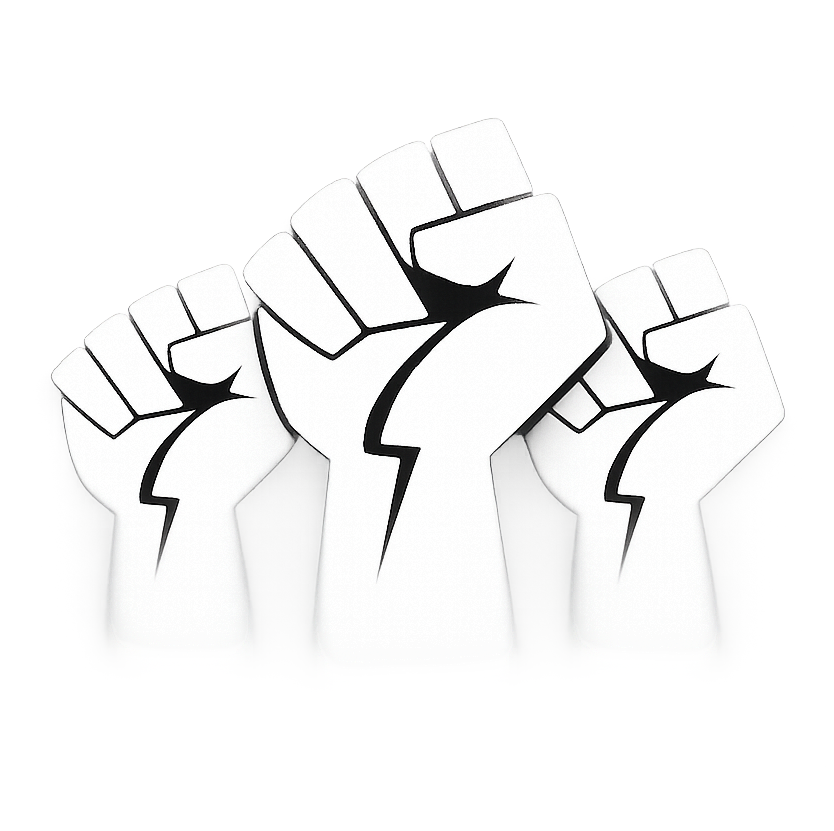
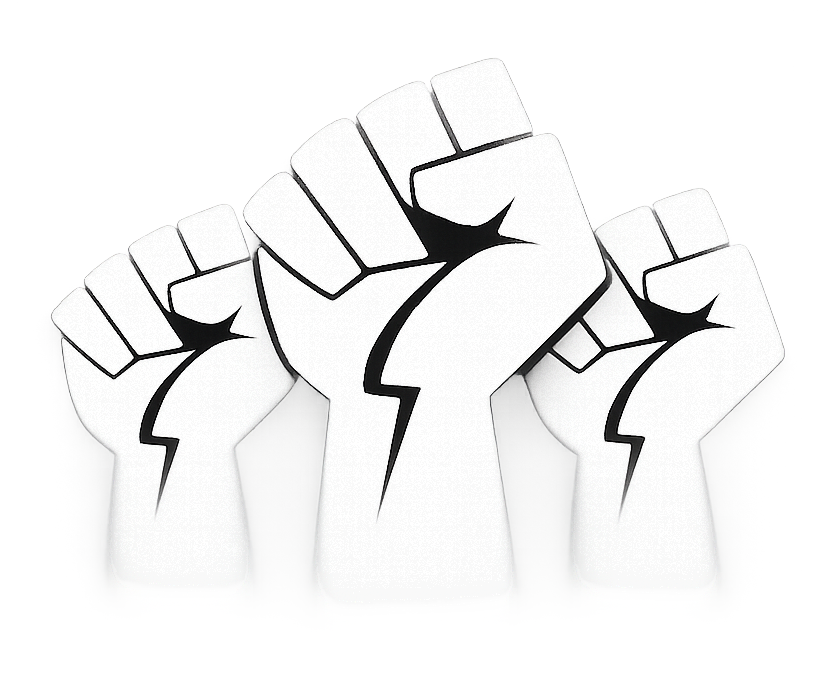
add more some changes

diff --git a/index.html b/index.html
@@ -153,9 +153,13 @@
         <div class="relative z-20 border-4 rounded-full p-2.5 sm:p-3.5">
 
           <div class="relative z-20 border-4 rounded-full p-3 sm:p-4">
-
-            <img src="./assets/fist_3.png" alt="fist" class="w-48 sm:w-64 md:w-72 lg:w-[350px] 
+            <div class=" flex flex-col items-center px-2 py-4">
+              <img src="./assets/fist_3.png" alt="fist" class="w-48 sm:w-64 md:w-72 lg:w-[350px] 
           object-contain brightness-110 contrast-125 mx-auto" />
+              <div class=" text-base sm:text-xl md:text-2xl lg:text-3xl  text-amber-400 font-semibold">
+                जागो बिहारी जागो
+              </div>
+            </div>
 
           </div>
 
@@ -277,7 +281,7 @@
       <p class="text-amber-400 font-medium mb-3">Grow the Community</p>
 
       <h2 class="text-3xl sm:text-4xl lg:text-5xl font-bold text-white mb-4">
-        Invite & <span class="gradient-text">Build Together</span> 
+        Invite & <span class="gradient-text">Build Together</span>
       </h2>
 
       <p class="text-gray-400 max-w-2xl mx-auto mb-10">
@@ -507,9 +511,9 @@
 
       <!-- Heading -->
       <div class="text-center mb-16 scroll-reveal">
-        <p class="text-amber-400 font-medium mb-4">Our Impact</p>
+        <!-- <p class="text-amber-400 font-medium mb-4">Our Impact</p> -->
         <h2 class="text-4xl lg:text-5xl font-bold mb-6">
-          Impact <span class="gradient-text">Highlights</span>
+          Upcoming <span class="gradient-text">Services</span>
         </h2>
         <div class="w-20 h-1 bg-gradient-to-r from-amber-400 to-orange-500 mx-auto"></div>
       </div>
@@ -716,7 +720,7 @@
       <p class="text-amber-400 font-medium mb-3">Support the Mission</p>
 
       <h2 class="text-3xl sm:text-4xl lg:text-5xl font-bold text-white mb-6">
-        Empower Justice <span class="gradient-text">Through Contribution</span> 
+        Empower Justice <span class="gradient-text">Through Contribution</span>
       </h2>
 
       <p class="text-gray-400 max-w-2xl mx-auto mb-14">
@@ -740,7 +744,8 @@
         <!-- Card 2 -->
         <div
           class="bg-slate-900 p-6 rounded-2xl border border-slate-700 hover:border-amber-400 hover:scale-105 transition duration-300">
-          <div class="text-amber-400 flex items-center justify-center p-4"><img src="./assets/speaker-50.png" alt=""></div>
+          <div class="text-amber-400 flex items-center justify-center p-4"><img src="./assets/speaker-50.png" alt="">
+          </div>
           <h4 class="text-lg font-semibold text-white mb-2">Awareness Campaigns</h4>
           <p class="text-gray-400 text-sm">
             Spreading awareness about constitutional rights and educating citizens to stand against injustice.
@@ -750,7 +755,8 @@
         <!-- Card 3 -->
         <div
           class="bg-slate-900 p-6 rounded-2xl border border-slate-700 hover:border-amber-400 hover:scale-105 transition duration-300">
-          <div class="text-amber-400 flex items-center justify-center p-4"><img src="./assets/protection.png" alt=""></div>
+          <div class="text-amber-400 flex items-center justify-center p-4"><img src="./assets/protection.png" alt="">
+          </div>
           <h4 class="text-lg font-semibold text-white mb-2">Rights Protection</h4>
           <p class="text-gray-400 text-sm">
             Protecting individuals from exploitation and misuse of power through structured action and advocacy.
@@ -993,59 +999,111 @@
 
 
   <!-- Constitutional Foundation -->
-  <div id="constitutional_foundation"
-    class="relative w-screen  py-16 overflow-hidden bg-slate-800/50  rounded-2xl p-6 shadow-2xl">
-    <div class="relative w-full max-w-5xl mx-auto px-4 sm:px-8">
+  <section id="constitutional_foundation" class="relative w-full py-20 bg-slate-800 overflow-hidden">
 
-      <h2 class="text-4xl lg:text-5xl font-bold mb-10 text-center">
-        Your Rights Under the <span class="gradient-text">Constitution</span>
-      </h2>
+    <div class="max-w-6xl mx-auto px-4 sm:px-6 lg:px-8">
 
-      <p class="text-gray-300 text-base leading-relaxed mb-4 text-center max-w-3xl mt-5 mx-auto">
-        Every citizen of India has important rights given by the Constitution
-        <span class="text-amber-400 font-medium">(Part III – Articles 12 to 35)</span>.
-        These rights protect your freedom, ensure equality, and give you the power to take action when treated unfairly.
-      </p>
+      <!-- Heading -->
+      <div class="text-center mb-16">
+        <h2 class="text-3xl sm:text-4xl lg:text-5xl font-bold leading-tight">
+          Your Rights Under the
+          <span class="bg-gradient-to-r from-amber-400 to-orange-500 text-transparent bg-clip-text">
+            Constitution
+          </span>
+        </h2>
 
-      <div class="grid md:grid-cols-2 gap-6 text-sm">
+        <p class="mt-6 text-gray-300 max-w-3xl mx-auto text-sm sm:text-base leading-relaxed">
+          Every citizen of India has important rights given by the Constitution
+          <span class="text-amber-400 font-medium">(Part III – Articles 12 to 35)</span>.
+          These rights protect your freedom, ensure equality, and give you the power
+          to take action when treated unfairly.
+        </p>
+      </div>
+
+      <!-- Cards -->
+      <div class="grid gap-6 md:grid-cols-2">
 
         <!-- Civil Liberties -->
-        <div class="card-glow bg-slate-900/50 p-8 rounded-3xl text-center scroll-reveal border border-slate-700">
-          <h4 class=" text-2xl font-semibold mb-4 text-amber-400">Your Freedom</h4>
-          <p class="text-gray-300 leading-relaxed">
-            You have the freedom to speak your thoughts, move anywhere in India,
-            live peacefully, practice your religion, and express yourself.
-            These rights protect your personal life and dignity
-            <span class="text-amber-400">(Articles 19 & 21)</span>.
+        <div
+          class="group relative bg-slate-900 backdrop-blur-xl border border-white/10 rounded-3xl p-6 sm:p-8 hover:scale-[1.02] transition duration-300 shadow-xl">
+
+          <h3 class="text-xl sm:text-2xl font-semibold text-amber-400 mb-4">
+            1) Civil Liberties
+          </h3>
+
+          <p class="text-gray-300 text-sm sm:text-base leading-relaxed mb-4">
+            Civil liberties are the freedoms protected from arbitrary interference by the State.
+          </p>
+
+          <ul class="text-gray-300 text-sm sm:text-base space-y-2 mb-4">
+            <li>• Freedom of speech and expression</li>
+            <li>• Freedom of movement</li>
+            <li>• Freedom of assembly</li>
+            <li>• Freedom of association</li>
+            <li>• Freedom of religion</li>
+            <li>• Personal liberty and life</li>
+          </ul>
+
+          <p class="text-gray-400 text-sm mb-2">
+            (Articles 19 & 21)
+          </p>
+
+          <p class="text-gray-300 text-sm leading-relaxed">
+            Example: You can express your opinion freely, move anywhere in India,
+            protest peacefully, and live with dignity.
           </p>
         </div>
 
         <!-- Civil Rights -->
-        <div class="card-glow bg-slate-900/50 p-8 rounded-3xl text-center scroll-reveal border border-slate-700">
-          <h4 class="text-2xl font-semibold mb-4 text-amber-400">Right to Equality</h4>
-          <p class="text-gray-300 leading-relaxed">
-            Everyone is equal in the eyes of the law. No one can discriminate against you
-            based on religion, caste, gender, or background.
-            You also have protection from exploitation and unfair treatment
-            <span class="text-amber-400">(Articles 14–17, 23–24)</span>.
+        <div
+          class="group relative bg-slate-900 backdrop-blur-xl border border-white/10 rounded-3xl p-6 sm:p-8 hover:scale-[1.02] transition duration-300 shadow-xl">
+
+          <h3 class="text-xl sm:text-2xl font-semibold text-amber-400 mb-4">
+            2) Civil Rights
+          </h3>
+
+          <p class="text-gray-300 text-sm sm:text-base leading-relaxed mb-4">
+            Civil rights focus on equality, protection from discrimination, and fair treatment under the law.
+          </p>
+
+          <ul class="text-gray-300 text-sm sm:text-base space-y-2 mb-4">
+            <li>• Equality before law (Article 14)</li>
+            <li>• Prohibition of discrimination based on religion, race, caste, sex, or place of birth (Article 15)</li>
+            <li>• Equal opportunity in public employment (Article 16)</li>
+            <li>• Abolition of untouchability (Article 17)</li>
+            <li>• Protection against exploitation (Articles 23–24)</li>
+          </ul>
+
+          <p class="text-gray-300 text-sm leading-relaxed">
+            These rights ensure that every citizen is treated with equality, dignity, and justice.
           </p>
         </div>
 
         <!-- Constitutional Remedies -->
-        <div class="md:col-span-2 flex justify-center ">
-          <div class="bg-slate-900/50 p-8 rounded-xl max-w-md w-full text-center border border-slate-700 card-glow">
-            <h4 class="text-2xl font-semibold mb-4 text-amber-400">Right to Take Action</h4>
-            <p class="text-gray-300 leading-relaxed">
-              If your rights are violated, you can go to court for justice.
-              Article 32 gives you the power to fight for your rights — that’s why it’s called the
-              <span class="italic text-amber-400">“heart and soul”</span> of the Constitution.
+        <div class="md:col-span-2 flex justify-center">
+          <div
+            class="w-full max-w-xl bg-slate-900  backdrop-blur-xl border border-white/10 backdrop-blur-xl rounded-3xl p-6 sm:p-10 text-center shadow-2xl hover:scale-[1.02] transition duration-300">
+
+            <h3 class="text-xl sm:text-2xl font-semibold text-amber-400 mb-4">
+              3) Constitutional Remedies
+            </h3>
+
+            <p class="text-gray-300 text-sm sm:text-base leading-relaxed mb-4">
+              Article 32 gives you the power to approach the Supreme Court or High Court
+              if your rights are violated.
+            </p>
+
+            <p class="text-gray-300 text-sm sm:text-base leading-relaxed">
+              It is called the
+              <span class="italic text-amber-400 font-medium">“heart and soul of the Constitution”</span>
+              because it allows citizens to fight for justice.
             </p>
           </div>
         </div>
 
       </div>
     </div>
-  </div>
+  </section>
 
 
   <section id="contact" class="relative w-screen bg-slate-900 py-20 overflow-hidden">
